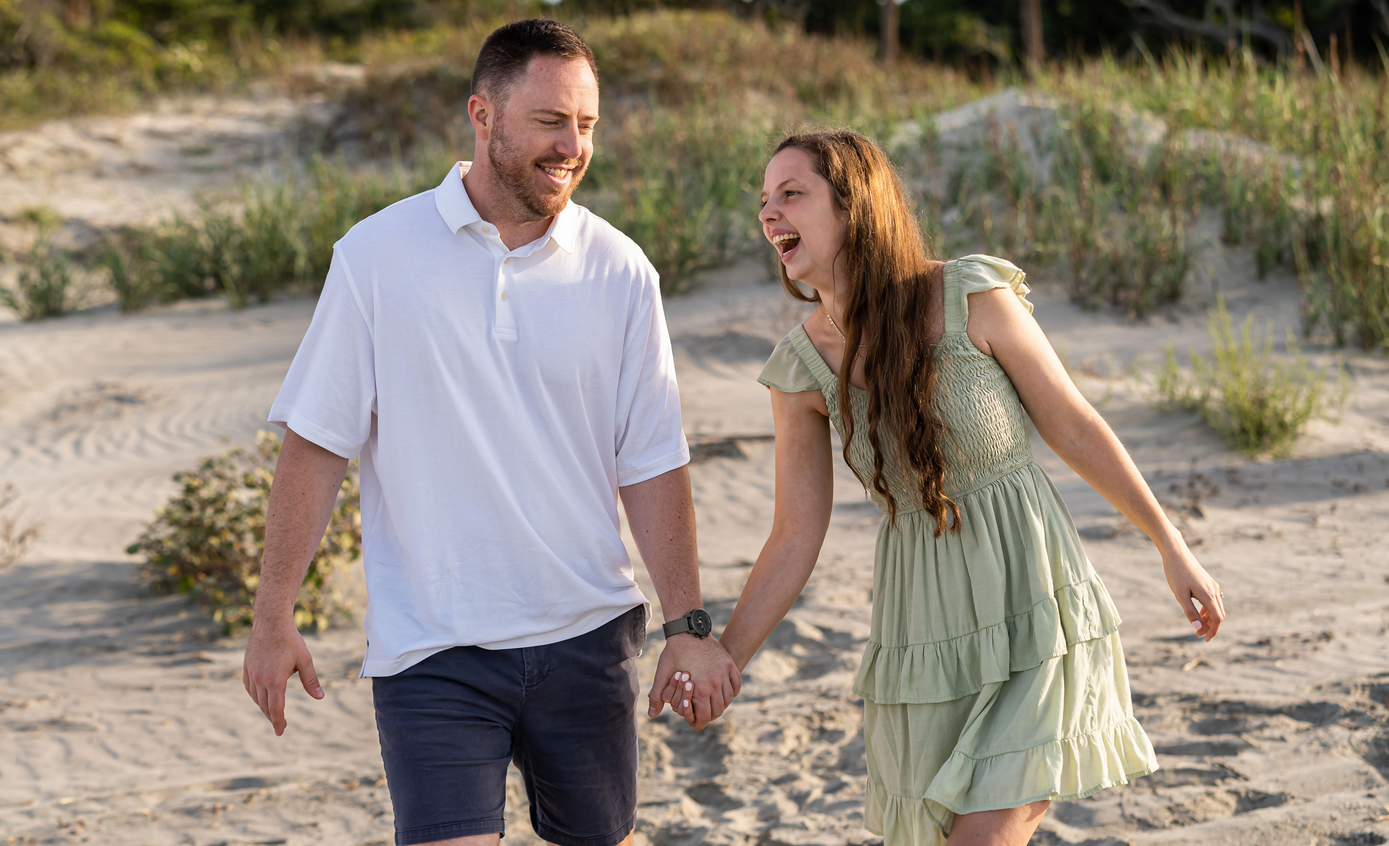
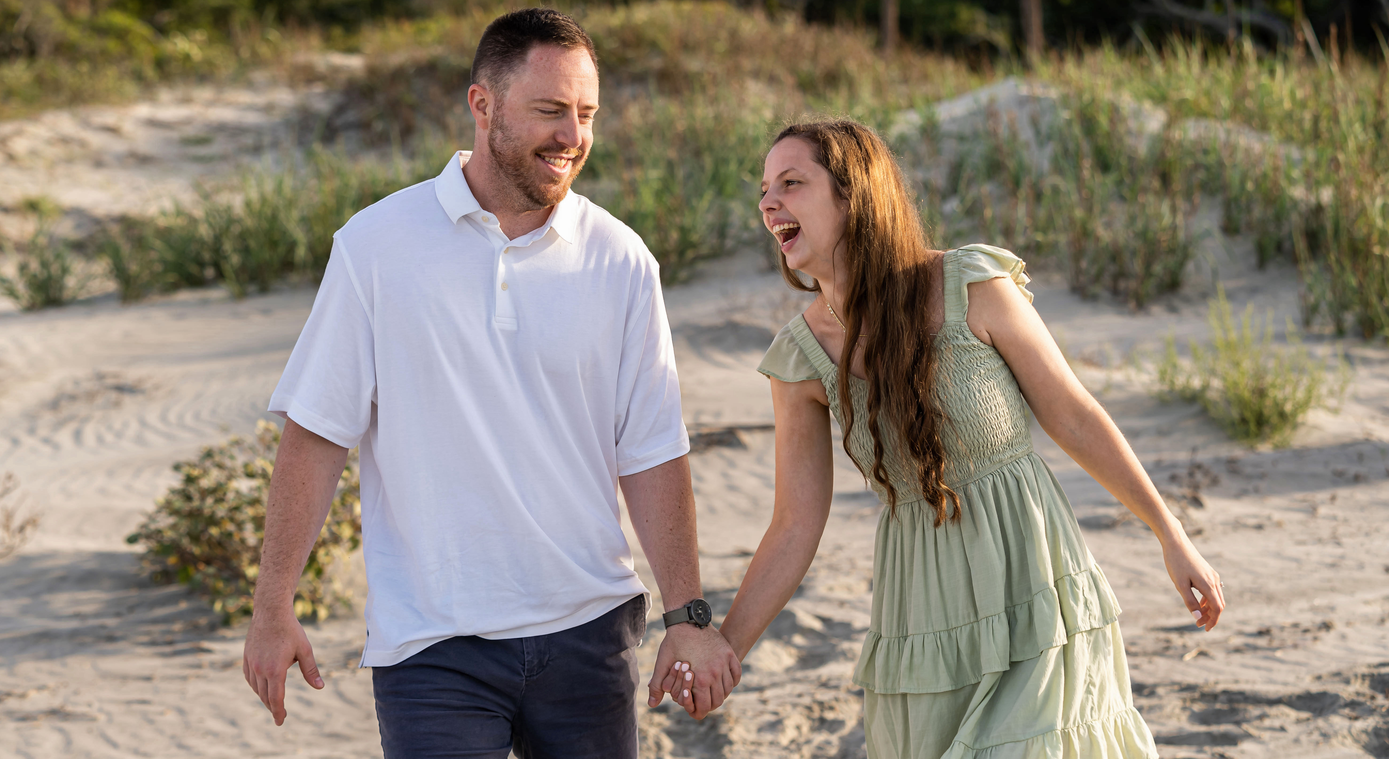
home updates and new images

diff --git a/src/views/Home.vue b/src/views/Home.vue
@@ -17,7 +17,7 @@
     </div>
   </section>
   <section id="countdown">
-    <div id="cd-container" class="container w-9/12 text-stone-500 mx-auto my-8 p-12">
+    <div id="cd-container" class="container w-9/12 mx-auto p-12 mt-8">
       <p class="text-xl text-center uppercase tracking-widest mb-12">Let the countdown begin!</p>        
       <vue-countdown :time="time" v-slot="{ days, hours, minutes, seconds }">
         <div class="flex flex-col md:flex-row justify-between text-center">
@@ -41,16 +41,14 @@
       </vue-countdown>
     </div>
   </section>
-  <section>
-    <TwoColSection :rightImage=rightImage>
-      <template #supertitle>You are cordially invited to the wedding of</template>
-      <template #title>Molly Gosky & <br> Jason Young</template>
-      <template #subtitle>April 26, 2025</template>
-      <template #content>Charleston, South Carolina</template>
-    </TwoColSection>
+  <section id="photo-section">
+    <div class="max-w-3xl mx-auto">
+      <img :src=rightImage class="object-cover" alt="Molly and Jason hold hands on the beach.">
+      <div class="hero-overlay bg-slate-600/20"></div>
+    </div>
   </section>
   <section id="invitation">
-    <div class="text-center p-12">
+    <div class="text-center">
       <div class="bg-white w-2/3 py-16 px-12 mx-auto">
         <p class="mb-5 uppercase cormorant tracking-wider">You are cordially invited to the wedding of</p>
         <div><FullNames /></div>
@@ -59,6 +57,49 @@
       </div>
     </div>
   </section>
+  <section id="photo-corousel" class="p-8">
+    <div>
+      <div class="carousel rounded-box">
+        <div class="carousel-item ">
+          <img src="/images/c-1.jpg" class="object-cover"/>
+        </div>
+        <div class="carousel-item">
+          <img src="/images/c-2.jpg" class="object-cover"/>
+        </div>
+        <div class="carousel-item">
+          <img src="/images/c-3.jpg" class="object-cover"/>
+        </div>
+        <div class="carousel-item">
+          <img src="/images/c-4.jpg" class="object-cover"/>
+        </div>
+        <div class="carousel-item">
+          <img src="/images/c-5.jpg" class="object-cover"/>
+        </div>
+        <div class="carousel-item">
+          <img src="/images/c-6.jpg" class="object-cover"/>
+        </div>
+        <div class="carousel-item">
+          <img src="/images/c-7.jpg" class="object-cover"/>
+        </div>
+        <div class="carousel-item">
+          <img src="/images/c-8.jpg" class="object-cover"/>
+        </div>
+        <div class="carousel-item">
+          <img src="/images/c-9.jpg" class="object-cover"/>
+        </div>
+      </div>
+    </div>
+  </section>
+    <!-- <section>
+    <TwoColSection :rightImage=rightImage>
+      <template #supertitle>You are cordially invited to the wedding of</template>
+      <template #title>
+        <div><FullNames /></div>
+      </template>
+      <template #subtitle>April 26, 2025</template>
+      <template #content>Charleston, South Carolina</template>
+    </TwoColSection>
+  </section> -->
 </template>
 
 <script lang="ts">
@@ -76,7 +117,7 @@ export default {
     return {
       btnClass: 'cormorant italic tracking-widest border py-2 px-6 hover:scale-110 transition duration-300 ease-in-out',
       cdClass: 'flex flex-col basis-1/4 justify-center uppercase mb-8 p-2',
-      rightImage: '/images/mj-beachlaugh.jpg',
+      rightImage: '/images/mj-dunes.jpg',
       time: weddingDay.getTime() - now.getTime(),
     };
   },
@@ -86,5 +127,10 @@ export default {
 <style>
   #hero-svg {
     width: 600px;
+  }
+
+  .carousel-item > .object-cover {
+    width: 300px;
+    height: 400px;
   }
 </style>

diff --git a/src/components/TwoColSection.vue b/src/components/TwoColSection.vue
@@ -1,16 +1,16 @@
 <template>
-  <div class="flex flex-wrap md:flex-nowrap justify-start md:justify-around mx-auto my-12 w-10/12">
+  <div class="flex flex-wrap md:flex-nowrap justify-start md:justify-around mx-auto w-10/12">
     <div class="basis-1/2 p-4 md:p-6 text-center bg-primary text-white">
-      <p class="mb-5 uppercase playfair tracking-wider">
+      <p class="mb-5 uppercase cormorant tracking-wider">
         <slot name="supertitle" ></slot>
       </p>
-      <p class="mb-10 text-6xl script italic">
+      <p class="">
         <slot name="title"></slot>
       </p>
-      <p class="mb-5 text-3xl uppercase tracking-widest font-light playfair">
+      <p class="mb-5 text-3xl uppercase tracking-widest">
         <slot name="subtitle"></slot>
       </p>
-      <p class="mb-5 text-xl">
+      <p class="mb-5 text-xl cormorant tracking-wider">
         <slot name="content"></slot>
       </p>
     </div>
